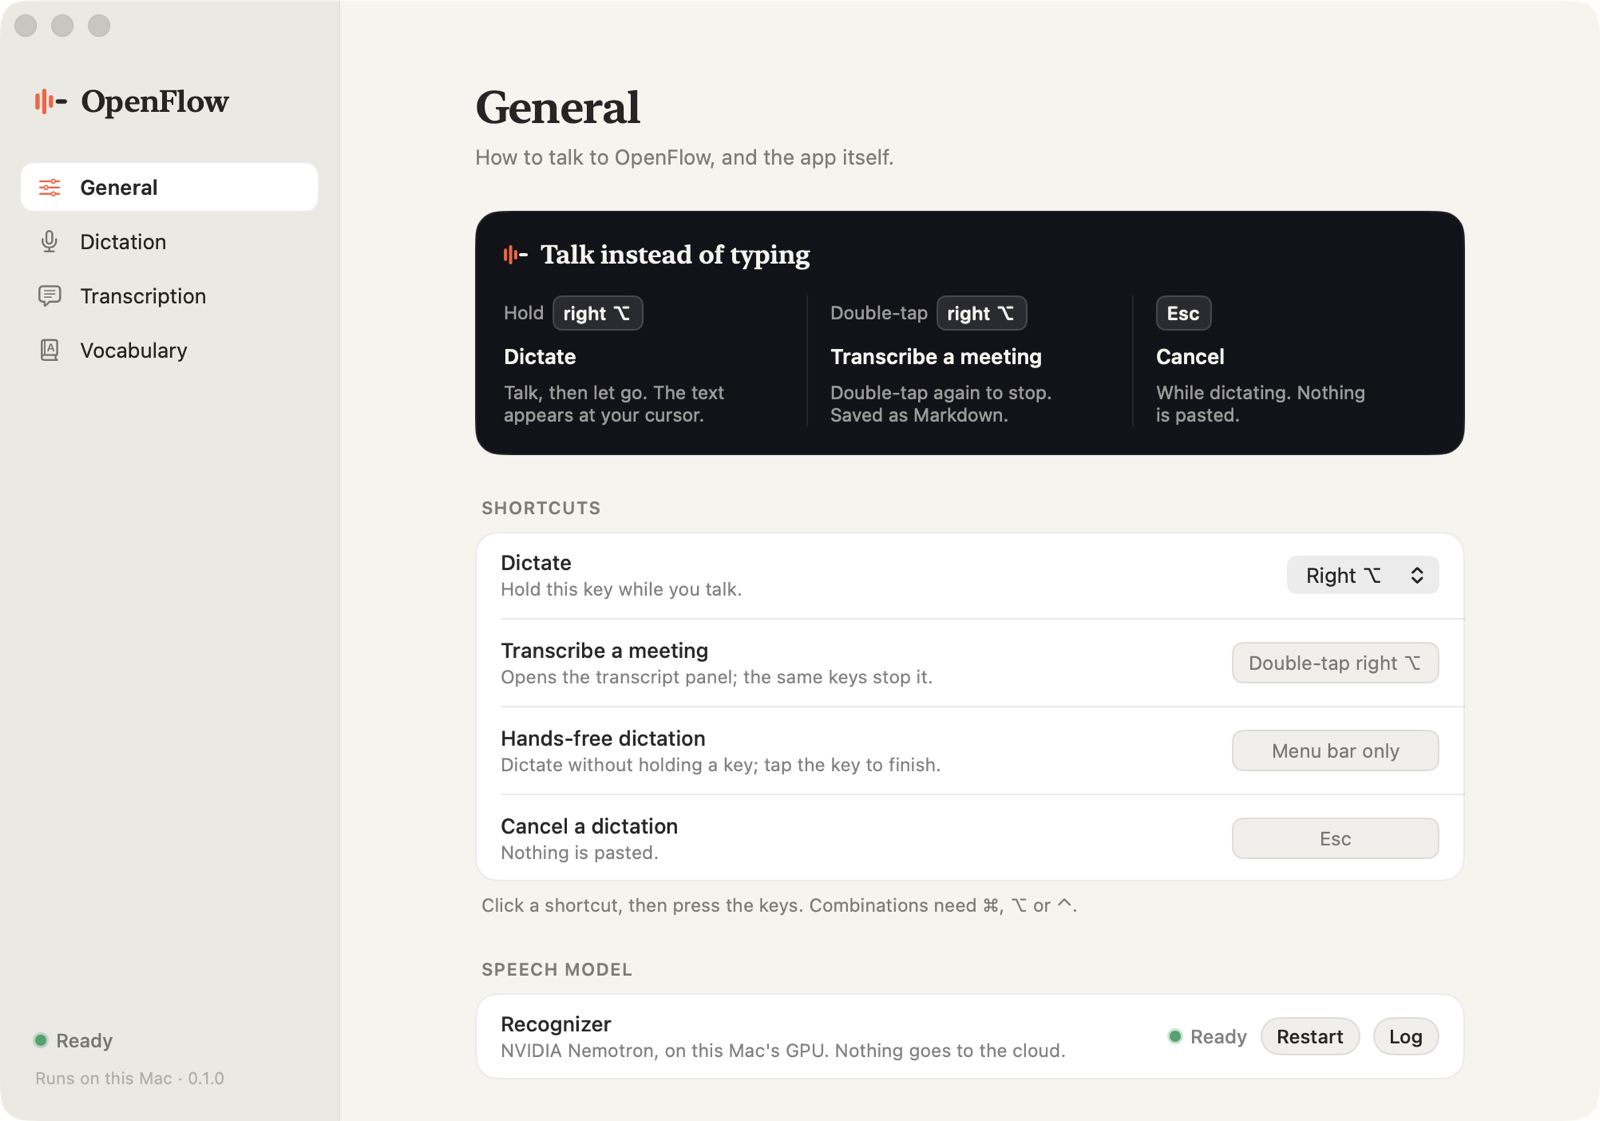
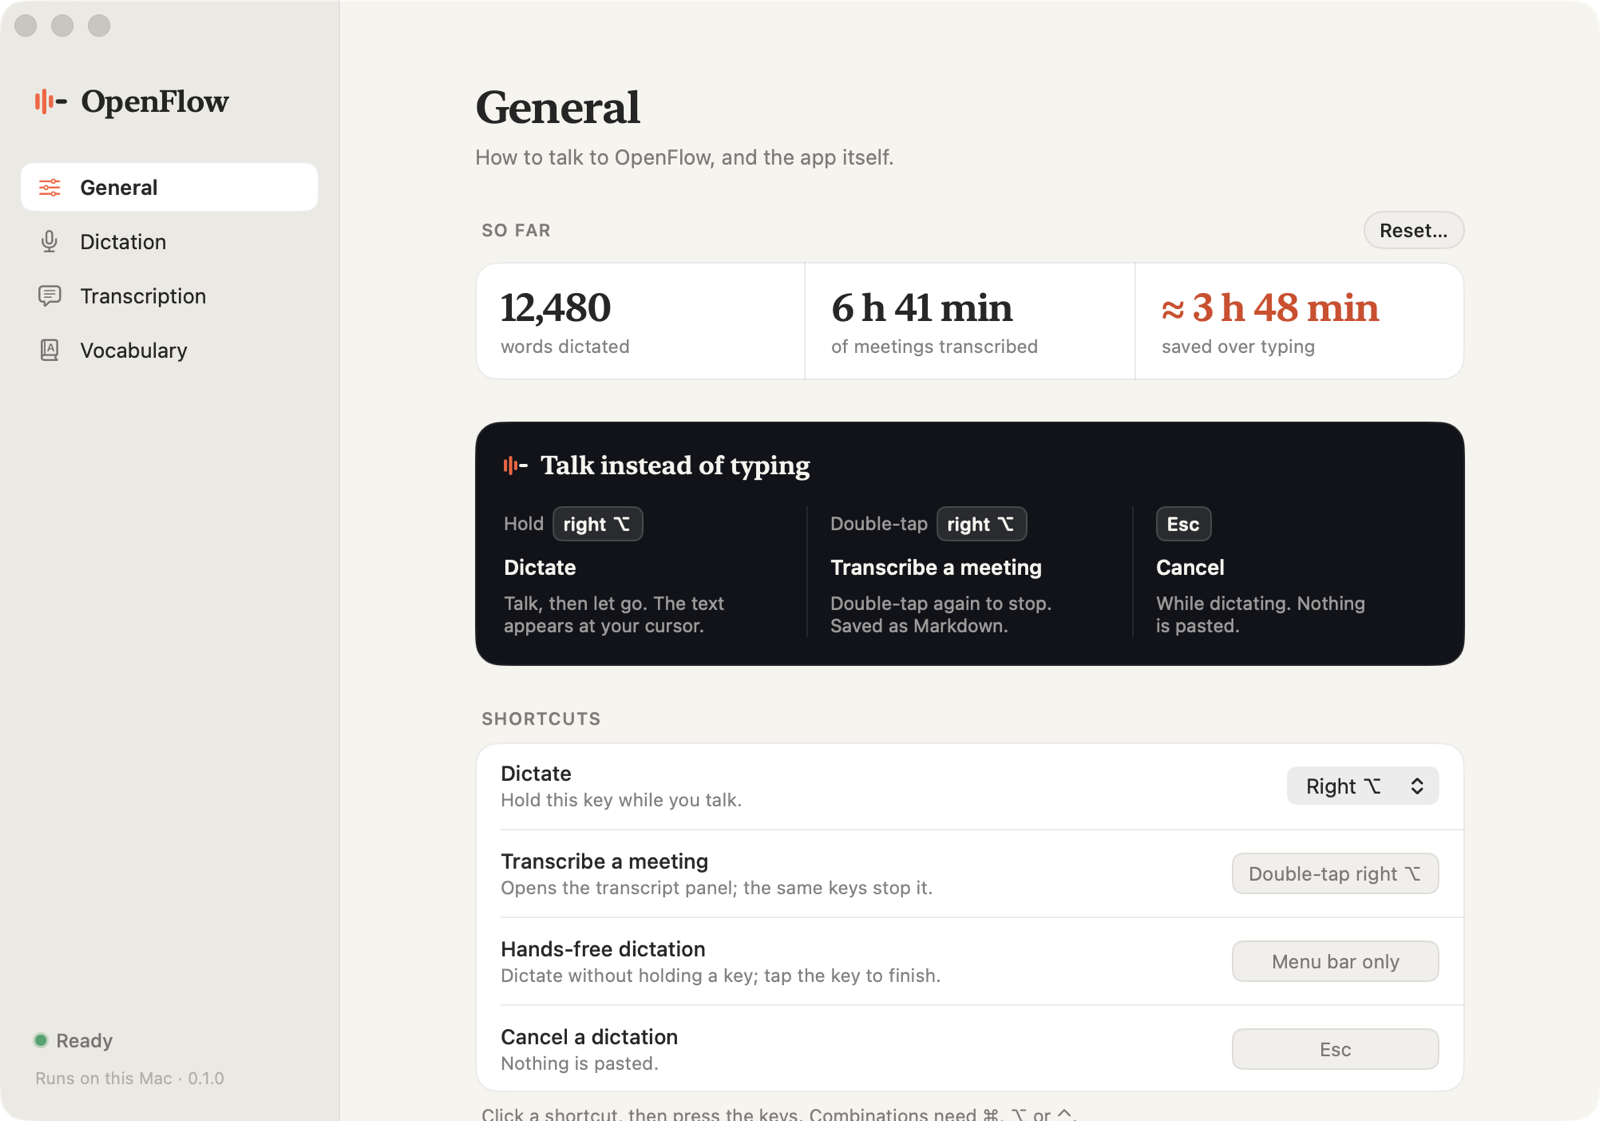
Show what OpenFlow has done so far on the General page
A card above the how-to: words dictated, meeting time transcribed and
typing time saved (the words at ~40 a minute typed instead of ~150
spoken). Each pasted dictation adds its word count, each finished
transcript with any text its length. Only the two totals are kept, in
UserDefaults, never the text; Reset… sets them back to zero.

README: the General screenshot and description include the card.

diff --git a/app/Sources/OpenFlow/MainWindow.swift b/app/Sources/OpenFlow/MainWindow.swift
@@ -25,6 +25,8 @@ final class AppModel: ObservableObject {
     @Published var hotkeyActive = false
     /// Bumped when shortcuts change, so hints redraw.
     @Published var shortcutsRevision = 0
+    /// Bumped when a dictation or transcript adds to the totals.
+    @Published var statsRevision = 0
 }
 
 /// What the window's pages can ask the app to do (settings with side effects go through here).
@@ -271,6 +273,7 @@ private struct GeneralPage: View {
 
     var body: some View {
         VStack(alignment: .leading, spacing: 26) {
+            StatsCard(model: model)
             HowToCard(model: model)
             ShortcutsGroup(model: model, actions: actions)
             SettingsGroup(title: "Speech model") {
@@ -303,6 +306,67 @@ private struct GeneralPage: View {
                 }
             }
         }
+    }
+}
+
+/// What OpenFlow has done for you so far: words dictated, meetings transcribed, typing time saved.
+private struct StatsCard: View {
+    @ObservedObject var model: AppModel
+    @State private var confirmReset = false
+
+    var body: some View {
+        let _ = model.statsRevision
+        let empty = Stats.words == 0 && Stats.transcribedSeconds == 0
+        VStack(alignment: .leading, spacing: 8) {
+            HStack {
+                Text("So far").font(.system(size: 11, weight: .semibold)).kerning(0.6).textCase(.uppercase)
+                    .foregroundStyle(.secondary).padding(.leading, 4)
+                Spacer()
+                if !empty {
+                    Button("Reset…") { confirmReset = true }.buttonStyle(.quietSmall)
+                }
+            }
+            Card {
+                HStack(spacing: 0) {
+                    tile(Stats.words.formatted(), "words dictated")
+                    Rectangle().fill(Brand.hairline).frame(width: 1)
+                    tile(Self.duration(Stats.transcribedSeconds), "of meetings transcribed")
+                    Rectangle().fill(Brand.hairline).frame(width: 1)
+                    tile((Stats.savedSeconds >= 60 ? "≈ " : "") + Self.duration(Stats.savedSeconds),
+                         "saved over typing", accent: true)
+                }
+                .fixedSize(horizontal: false, vertical: true)
+            }
+            if empty {
+                Text("Your first dictation starts the count. Only the totals are kept, never the text.")
+                    .font(.system(size: 11.5)).foregroundStyle(.secondary).padding(.horizontal, 4)
+            }
+        }
+        .confirmationDialog("Reset the totals to zero?", isPresented: $confirmReset) {
+            Button("Reset", role: .destructive) {
+                Stats.reset()
+                model.statsRevision += 1
+            }
+        }
+    }
+
+    private func tile(_ value: String, _ label: String, accent: Bool = false) -> some View {
+        VStack(alignment: .leading, spacing: 3) {
+            Text(value).font(.display(24)).kerning(-0.3)
+                .foregroundStyle(accent ? AnyShapeStyle(Brand.emberText) : AnyShapeStyle(.primary))
+                .lineLimit(1).minimumScaleFactor(0.7)
+            Text(label).font(.system(size: 11.5)).foregroundStyle(.secondary)
+        }
+        .padding(.horizontal, 16)
+        .padding(.vertical, 14)
+        .frame(maxWidth: .infinity, alignment: .leading)
+    }
+
+    /// "0 min", "42 min", "3 h", "6 h 40 min".
+    static func duration(_ seconds: Int) -> String {
+        let minutes = seconds / 60, h = minutes / 60, m = minutes % 60
+        if h == 0 { return "\(minutes) min" }
+        return m == 0 ? "\(h) h" : "\(h) h \(m) min"
     }
 }
 

diff --git a/app/Sources/OpenFlow/main.swift b/app/Sources/OpenFlow/main.swift
@@ -102,6 +102,7 @@ final class AppDelegate: NSObject, NSApplicationDelegate, NSMenuDelegate, UNUser
             return true
         }
         sweeper.onFinished = { [weak self] in self?.notifyScanned($0) }
+        transcriber.onFinished = { [weak self] in self?.countTranscript() }
         sweeper.start()
         // The menu bar icon shows a dot while a scan runs.
         scanWatch = sweeper.$running.receive(on: DispatchQueue.main).sink { [weak self] running in
@@ -290,6 +291,14 @@ final class AppDelegate: NSObject, NSApplicationDelegate, NSMenuDelegate, UNUser
         play("Morse")
     }
 
+    /// Adds a finished meeting's length to the General page's total, if anything was said.
+    private func countTranscript() {
+        let m = transcriber.model
+        guard !m.segments.isEmpty, let ended = m.ended else { return }
+        Stats.addTranscription(seconds: ended.timeIntervalSince(m.started))
+        appModel.statsRevision += 1
+    }
+
     private func stopTranscription() {
         guard case .transcribing = state else { return }
         transcriber.stop()
@@ -362,6 +371,8 @@ final class AppDelegate: NSObject, NSApplicationDelegate, NSMenuDelegate, UNUser
         play("Pop")
         history.insert(text, at: 0)
         history = Array(history.prefix(10))
+        Stats.addDictation(text)
+        appModel.statsRevision += 1
         paste(text)
     }
 

diff --git a/app/Sources/OpenFlow/Settings.swift b/app/Sources/OpenFlow/Settings.swift
@@ -81,3 +81,26 @@ enum Settings {
         set { d.set(newValue, forKey: "lastVaultScan") }
     }
 }
+
+/// Running totals for the General page: two numbers in UserDefaults, never the text itself.
+enum Stats {
+    private static let d = UserDefaults.standard
+
+    static var words: Int { d.integer(forKey: "statsWords") }
+    static var transcribedSeconds: Int { d.integer(forKey: "statsTranscribedSeconds") }
+    /// Typing the words at ~40 a minute instead of speaking them at ~150.
+    static var savedSeconds: Int { words * 60 / 40 - words * 60 / 150 }
+
+    static func addDictation(_ text: String) {
+        d.set(words + text.split(whereSeparator: \.isWhitespace).count, forKey: "statsWords")
+    }
+
+    static func addTranscription(seconds: TimeInterval) {
+        d.set(transcribedSeconds + Int(seconds.rounded()), forKey: "statsTranscribedSeconds")
+    }
+
+    static func reset() {
+        d.removeObject(forKey: "statsWords")
+        d.removeObject(forKey: "statsTranscribedSeconds")
+    }
+}

diff --git a/README.md b/README.md
@@ -128,8 +128,9 @@ with ordinary sentences unaffected.
   <img src="docs/images/window-general.png" alt="The OpenFlow window, General page" width="80%">
 </p>
 
-- **General:** your shortcuts (dictation key, transcription, hands-free, cancel), sounds, launch at
-  login.
+- **General:** what you've done so far (words dictated, meeting time transcribed, typing time saved;
+  only the totals are kept, never the text), your shortcuts (dictation key, transcription,
+  hands-free, cancel), sounds, launch at login.
 - **Dictation:** language (automatic, Deutsch or English) and microphone. "Automatic" prefers the
   built-in mic over a Bluetooth headset, which would otherwise switch to low-quality call audio.
 - **Transcription:** the transcripts folder and echo removal for speakers.
